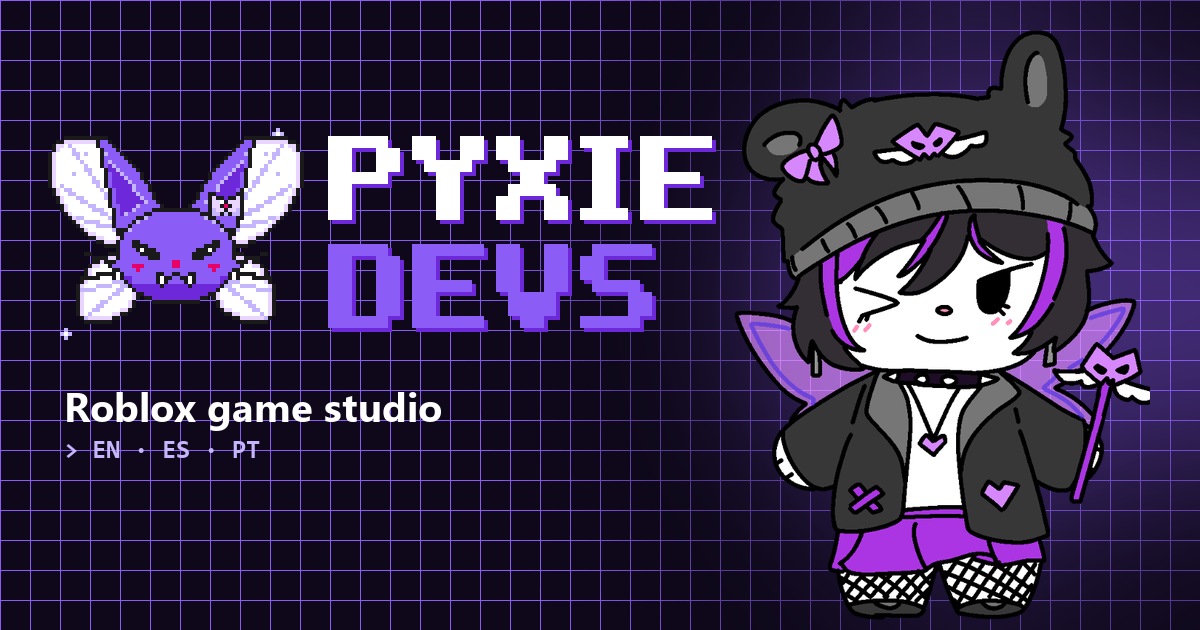
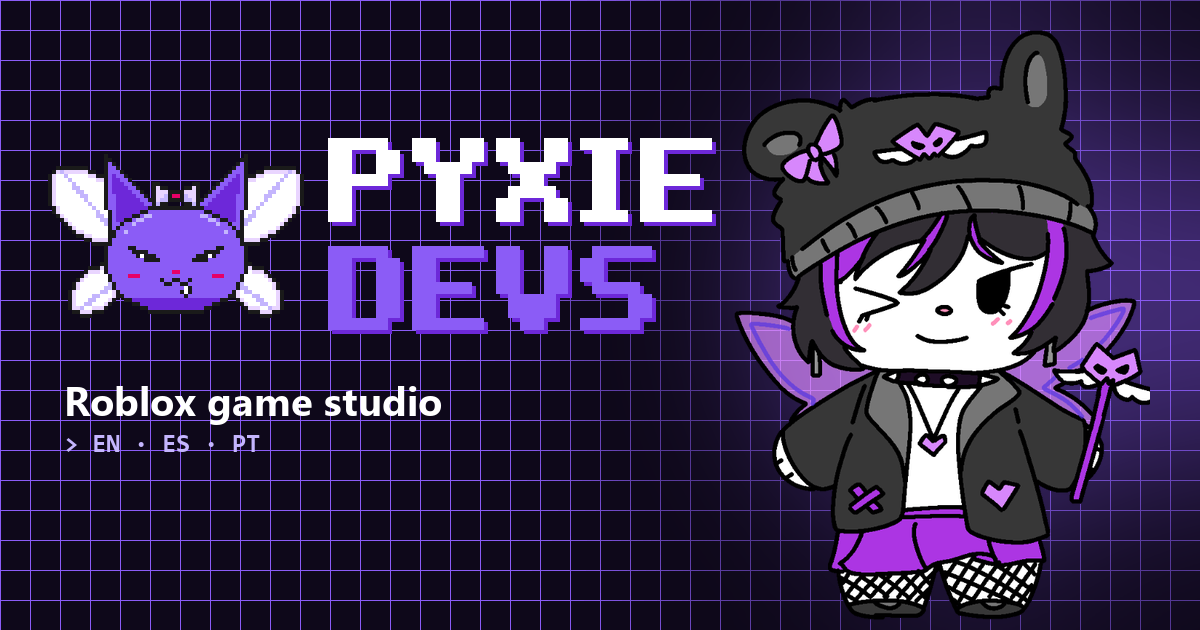
fix(devs): ícone da Pyxie Devs sem leituras ambíguas
Cabeça grande de gata no centro e asas de fada menores atrás (antes lia como
inseto); orelhas curtas presas à cabeça; laço de gravata-borboleta no alto da
cabeça (antes parecia um terceiro olho); boca "ω" com uma presinha; bochechas
em traço; sem bigodes cruzando as asas nem pontinhos soltos. Logo e OG
refeitas; ?v=3 para o cache.

diff --git a/src/site/devsPage.js b/src/site/devsPage.js
@@ -208,7 +208,7 @@ function renderDevsPage({ lang = DEFAULT_LANG, links = {} } = {}) {
     '@id': `${SITE_ORIGIN}/devs#org`,
     name: 'Pyxie Devs',
     url: urlFor(DEFAULT_LANG),
-    logo: `${SITE_ORIGIN}/assets/brand/pyxie-devs-logo.png?v=2`,
+    logo: `${SITE_ORIGIN}/assets/brand/pyxie-devs-logo.png?v=3`,
     description: c.description,
     knowsAbout: ['Roblox', 'Luau', 'Game development'],
   };
@@ -228,7 +228,7 @@ function renderDevsPage({ lang = DEFAULT_LANG, links = {} } = {}) {
   <meta property="og:url" content="${canonical}" />
   <meta property="og:title" content="${escapeHtml(c.title)}" />
   <meta property="og:description" content="${escapeHtml(c.description)}" />
-  <meta property="og:image" content="${SITE_ORIGIN}/assets/brand/og-devs.png?v=2" />
+  <meta property="og:image" content="${SITE_ORIGIN}/assets/brand/og-devs.png?v=3" />
   <meta property="og:image:width" content="1200" />
   <meta property="og:image:height" content="630" />
   <meta property="og:image:alt" content="${escapeHtml(c.logoAlt)}" />
@@ -238,9 +238,9 @@ function renderDevsPage({ lang = DEFAULT_LANG, links = {} } = {}) {
   <meta name="twitter:card" content="summary_large_image" />
   <meta name="twitter:title" content="${escapeHtml(c.title)}" />
   <meta name="twitter:description" content="${escapeHtml(c.description)}" />
-  <meta name="twitter:image" content="${SITE_ORIGIN}/assets/brand/og-devs.png?v=2" />
+  <meta name="twitter:image" content="${SITE_ORIGIN}/assets/brand/og-devs.png?v=3" />
   <script type="application/ld+json">${JSON.stringify(jsonLd).replace(/</g, '\\u003c')}</script>
-  <link rel="icon" type="image/png" href="/assets/brand/pyxie-devs-icon.png?v=2" />
+  <link rel="icon" type="image/png" href="/assets/brand/pyxie-devs-icon.png?v=3" />
   <link rel="preload" as="image" href="/assets/brand/pyxie-hero.webp" type="image/webp" />
   <link rel="stylesheet" href="/css/fonts.css" />
   <link rel="stylesheet" href="/css/site.css?v=1" />
@@ -295,7 +295,7 @@ function renderDevsPage({ lang = DEFAULT_LANG, links = {} } = {}) {
   <header class="site-header">
     <div class="wrap">
       <a class="brand devs-brand" href="${meta.path}">
-        <img src="/assets/brand/pyxie-devs-logo.svg?v=2" width="102" height="34" alt="Pyxie Devs" />
+        <img src="/assets/brand/pyxie-devs-logo.svg?v=3" width="110" height="34" alt="Pyxie Devs" />
       </a>
       <nav class="nav" aria-label="${escapeHtml(c.navLabel)}">
         <a class="nav-link" href="#what">${escapeHtml(c.navWhat)}</a>
@@ -309,7 +309,7 @@ function renderDevsPage({ lang = DEFAULT_LANG, links = {} } = {}) {
   <main id="content">
     <section class="wrap hero">
       <div>
-        <img class="hero-logo" src="/assets/brand/pyxie-devs-logo.svg?v=2" width="684" height="228" alt="${escapeHtml(c.logoAlt)}" />
+        <img class="hero-logo" src="/assets/brand/pyxie-devs-logo.svg?v=3" width="684" height="212" alt="${escapeHtml(c.logoAlt)}" />
         <span class="eyebrow">${escapeHtml(c.eyebrow)}</span>
         <h1>${c.h1}</h1>
         <p class="lead">${escapeHtml(c.lead)}</p>

diff --git a/public/index.html b/public/index.html
@@ -75,7 +75,7 @@
             "@type": "Organization",
             "name": "Pyxie Devs",
             "url": "https://pyxie.com.br/devs",
-            "logo": "https://pyxie.com.br/assets/brand/pyxie-devs-logo.png?v=2",
+            "logo": "https://pyxie.com.br/assets/brand/pyxie-devs-logo.png?v=3",
             "description": "Grupo independente de desenvolvimento de jogos no Roblox."
           },
           {
@@ -255,7 +255,7 @@
     <section class="wrap doors" aria-label="Nossos projetos" data-i18n-aria="doors.label">
       <article class="door door--devs reveal" id="devs">
         <span class="tag" data-i18n="devs.tag">Estúdio de jogos no Roblox</span>
-        <img class="devs-logo" src="/assets/brand/pyxie-devs-logo.svg?v=2" width="684" height="228" alt="Logo da Pyxie Devs: a Pyxie como gata-morcego-fada roxa com asas de fada, em pixel art" data-i18n-alt="devs.logoAlt" />
+        <img class="devs-logo" src="/assets/brand/pyxie-devs-logo.svg?v=3" width="684" height="212" alt="Logo da Pyxie Devs: a Pyxie como gata-morcego-fada roxa com asas de fada, em pixel art" data-i18n-alt="devs.logoAlt" />
         <h2 class="sr-only" data-i18n="devs.title">Pyxie Devs</h2>
         <p data-i18n="devs.text">Um grupo independente de desenvolvimento no Roblox. Fazemos nossos próprios jogos, dividimos o que aprendemos e testamos tudo com a comunidade no Discord.</p>
         <div class="langs" aria-label="Site em inglês, espanhol e português" data-i18n-aria="devs.langs"><span>EN</span><span>ES</span><span>PT</span></div>

diff --git a/scripts/brand/pyxie-devs-logo.py b/scripts/brand/pyxie-devs-logo.py
@@ -1,8 +1,8 @@
 """
 Marca da Pyxie Devs em pixel art (paleta da Pyxie).
 
-Ícone: a Pyxie como gato-morcego-fada, com orelhas de gato, presas de morcego,
-asas de fada e o lacinho dela. Logo: ícone + PYXIE DEVS em letras de pixel.
+Ícone: a Pyxie como gata-morcego-fada: cabeça grande de gata, presinha de morcego,
+asas de fada atrás e o laço dela. Logo: ícone + PYXIE DEVS em letras de pixel.
 
 Uso: python scripts/brand/pyxie-devs-logo.py public/assets/brand
 Gera pyxie-devs-icon.{svg,png}, pyxie-devs-logo{,-light}.{svg,png}.
@@ -69,109 +69,80 @@ def line(x0, y0, x1, y1, c, mask=None):
             g[y][x] = c
 
 
-# --- Asas de fada (atrás): superior grande e inferior menor
-root = (26, 37)
-up = rot_ellipse(13, 23, 10.5, 16.5, -40)
-low = rot_ellipse(15.5, 47, 7.5, 10.5, 42)
+# --- Asas de fada, atrás da cabeça e menores que ela (para não virar inseto)
+root = (22, 38)
+up = rot_ellipse(10.5, 26, 8, 13, -52)
+low = rot_ellipse(12, 47, 5.5, 8, 50)
 
 
 def wing_fill(mask):
     def fn(x, y):
-        d = math.hypot(x - root[0], y - root[1])
         edge = any((x + dx, y + dy) not in mask for dx, dy in ((2, 0), (-2, 0), (0, 2), (0, -2)))
-        if d < 10:
-            return 'L'
-        return 'L' if edge else 'W'
+        return 'L' if edge or math.hypot(x - root[0], y - root[1]) < 8 else 'W'
     return fn
 
 
 put_layer(low, wing_fill(low))
-for tip in ((9, 54), (6, 48)):
-    line(root[0] - 5, root[1] + 7, tip[0], tip[1], 'H', low)
+line(root[0] - 4, root[1] + 5, 7, 52, 'H', low)
 put_layer(up, wing_fill(up))
-for tip in ((5, 11), (3, 21), (7, 29)):
-    line(root[0] - 5, root[1] - 4, tip[0], tip[1], 'H', up)
-for (x, y) in ((9, 13), (6, 18), (11, 20), (8, 25)):
-    if (x, y) in up and g[y][x] == 'W':
-        g[y][x] = 'H'
+line(root[0] - 4, root[1] - 4, 3, 17, 'H', up)
 
-# --- Orelhas de gato-morcego: triângulo inclinado com recorte de morcego na borda de fora
-ear = polygon([(17, 34), (12, 9), (14, 8.5), (23, 17), (29, 27)])
+# --- Orelhas de gata-morcego: curtas, largas na base, presas ao alto da cabeça
+ear = polygon([(15, 34), (13.5, 11.5), (29, 27)])
 put_layer(ear, lambda x, y: 'P')
-inner = polygon([(18.5, 29.5), (14.2, 13), (25, 25.5)])
+inner = polygon([(17.5, 30), (15.5, 16.5), (25, 27)])
 for (x, y) in inner:
     if g[y][x] != 'D':
         g[y][x] = 'Q'
-for (x, y) in inner:
-    if g[y][x] == 'Q' and (x + 1, y) not in inner:
-        g[y][x] = 'H'
 
-# --- Cabeça
+# --- Cabeça grande, no centro
 head = set()
 for y in range(N):
     for x in range(32):
-        dx, dy = x + .5 - 32, y + .5 - 39
-        if (dx / 15.5) ** 2 + (dy / 12.5) ** 2 <= 1:
+        dx, dy = x + .5 - 32, y + .5 - 39.5
+        if (dx / 18) ** 2 + (dy / 14) ** 2 <= 1:
             head.add((x, y))
-# tufos das bochechas
-for (x, y) in ((16, 40), (15, 41), (16, 41), (16, 42), (15, 43), (16, 43), (16, 44)):
-    head.add((x, y))
-
-
-def head_color(x, y):
-    if y >= 46 or (y >= 44 and x < 21):
-        return 'Q'
-    return 'P'
-
-
-put_layer(head, head_color)
-# brilho da testa
-for (x, y) in ((22, 30), (23, 29), (24, 29), (25, 28), (20, 32)):
-    if (x, y) in head and g[y][x] != 'D':
+put_layer(head, lambda x, y: 'Q' if y >= 49 else 'P')
+for (x, y) in ((21, 30), (22, 29), (23, 29), (24, 28), (25, 28), (19, 32)):
+    if g[y][x] == 'P':
         g[y][x] = 'H'
 
 # --- Rosto (metade esquerda; espelhado)
-eye = [(21, 35), (22, 35), (21, 36), (22, 36), (23, 36), (24, 36), (22, 37), (23, 37), (24, 37), (25, 37), (26, 37),
-       (23, 38), (24, 38), (25, 38), (26, 38), (27, 38), (25, 39), (26, 39), (27, 39)]
-for (x, y) in eye:
+for (x, y) in ((20, 36), (21, 36), (21, 37), (22, 37), (23, 37), (24, 37), (22, 38), (23, 38), (24, 38),
+               (25, 38), (26, 38), (24, 39), (25, 39), (26, 39), (27, 39)):
     g[y][x] = 'D'
-g[37][23] = 'W'  # brilho no olho
-g[36][22] = 'D'
-# bochecha corada
-for (x, y) in ((21, 41), (22, 41), (23, 41), (22, 42)):
-    g[y][x] = 'K'
-# nariz
-g[41][31] = 'K'
-g[40][31] = 'K'
-# boca em "w"
-for (x, y) in ((27, 43), (28, 43), (29, 44), (30, 44), (31, 43)):
+g[38][23] = 'W'                      # brilho no olho
+for x in (20, 21, 22):                # bochecha corada: traço simples
+    g[43][x] = 'K'
+g[42][31] = 'K'                       # nariz
+for (x, y) in ((28, 44), (29, 45), (30, 45), (31, 44)):   # boca em "ω"
     g[y][x] = 'D'
-
-# presinhas de morcego
-for (x, y, c) in ((27, 44, 'D'), (28, 44, 'W'), (28, 45, 'W'), (27, 45, 'D'), (29, 45, 'D'), (28, 46, 'D')):
-    g[y][x] = c
-# bigodes
-line(15, 40, 9, 38, 'D')
-line(15, 43, 9, 44, 'D')
 
 # --- Espelha
 for y in range(N):
     for x in range(32):
         g[y][63 - x] = g[y][x]
 
-# --- Detalhes assimétricos: lacinho da Pyxie na orelha direita, presa de morcego e brilhos
-BOW = ["DD.....DD", "DLDD.DDLD", "DLLWDLLLD", "DLLDKDLLD", "DHLLDLLHD", "DHHD.DHHD", "DD.....DD"]
+# --- Presinha de morcego (um lado só) e o laço da Pyxie no alto da cabeça
+g[46][34] = 'W'
+g[47][34] = 'W'
+g[48][34] = 'D'
+g[46][35] = 'D'
+g[47][35] = 'D'
+g[47][33] = 'D'
+BOW = [
+    "DD........DD",
+    "DLDD....DDLD",
+    "DLLLDDDDLLLD",
+    "DLLHDKKDHLLD",
+    "DLHHDDDDHHLD",
+    "DHDD....DDHD",
+    "DD........DD",
+]
 for j, row in enumerate(BOW):
     for i, c in enumerate(row):
         if c != '.':
-            g[23 + j][40 + i] = c
-
-for (cx, cy) in ((57, 8), (4, 58)):
-    for (dx, dy) in ((0, 0), (1, 0), (-1, 0), (0, 1), (0, -1)):
-        if g[cy + dy][cx + dx] == '.':
-            g[cy + dy][cx + dx] = 'W' if (dx, dy) == (0, 0) else 'H'
-
-
+            g[20 + j][26 + i] = c
 
 
 # ---------------------------------------------------------------- logo
